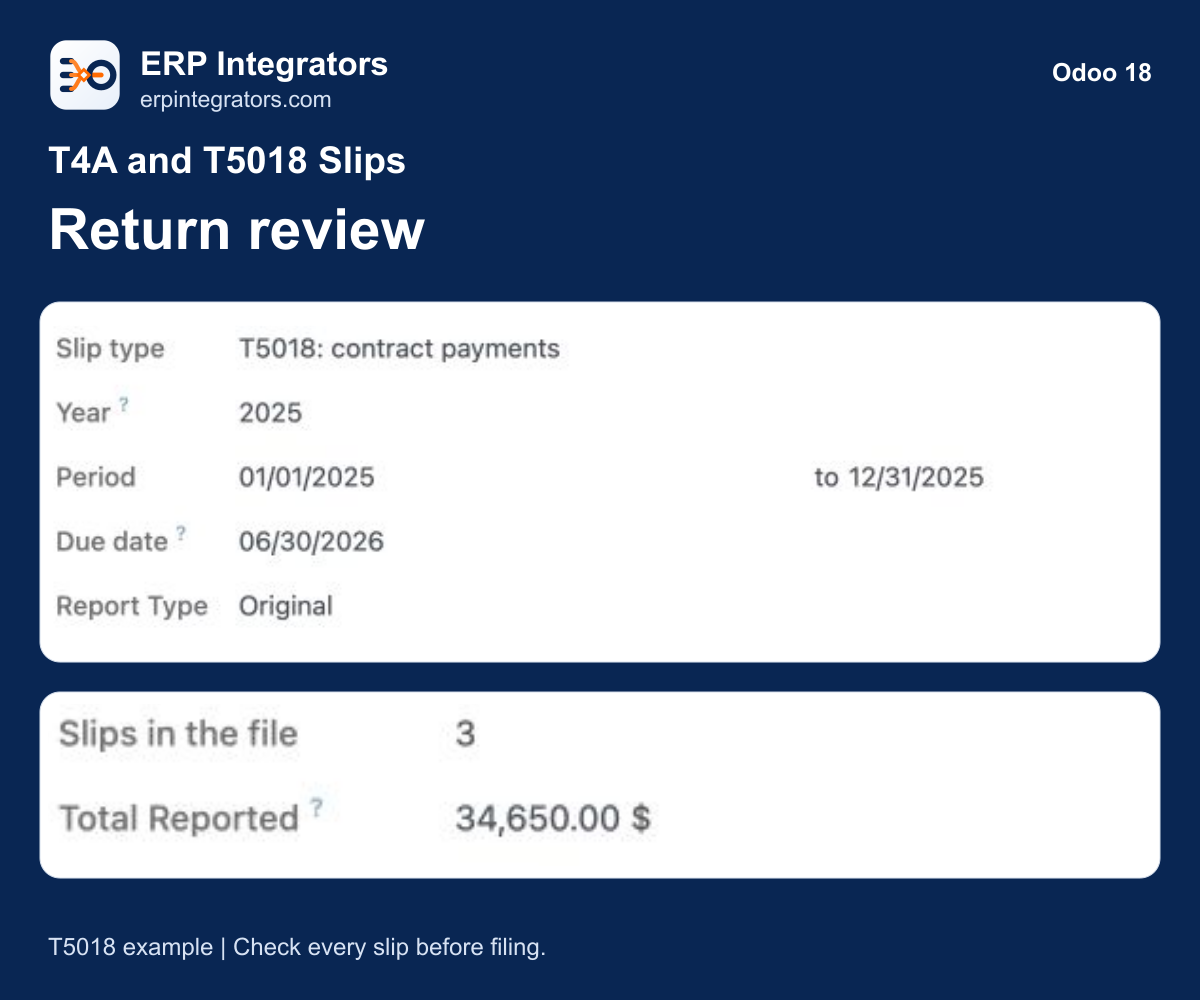
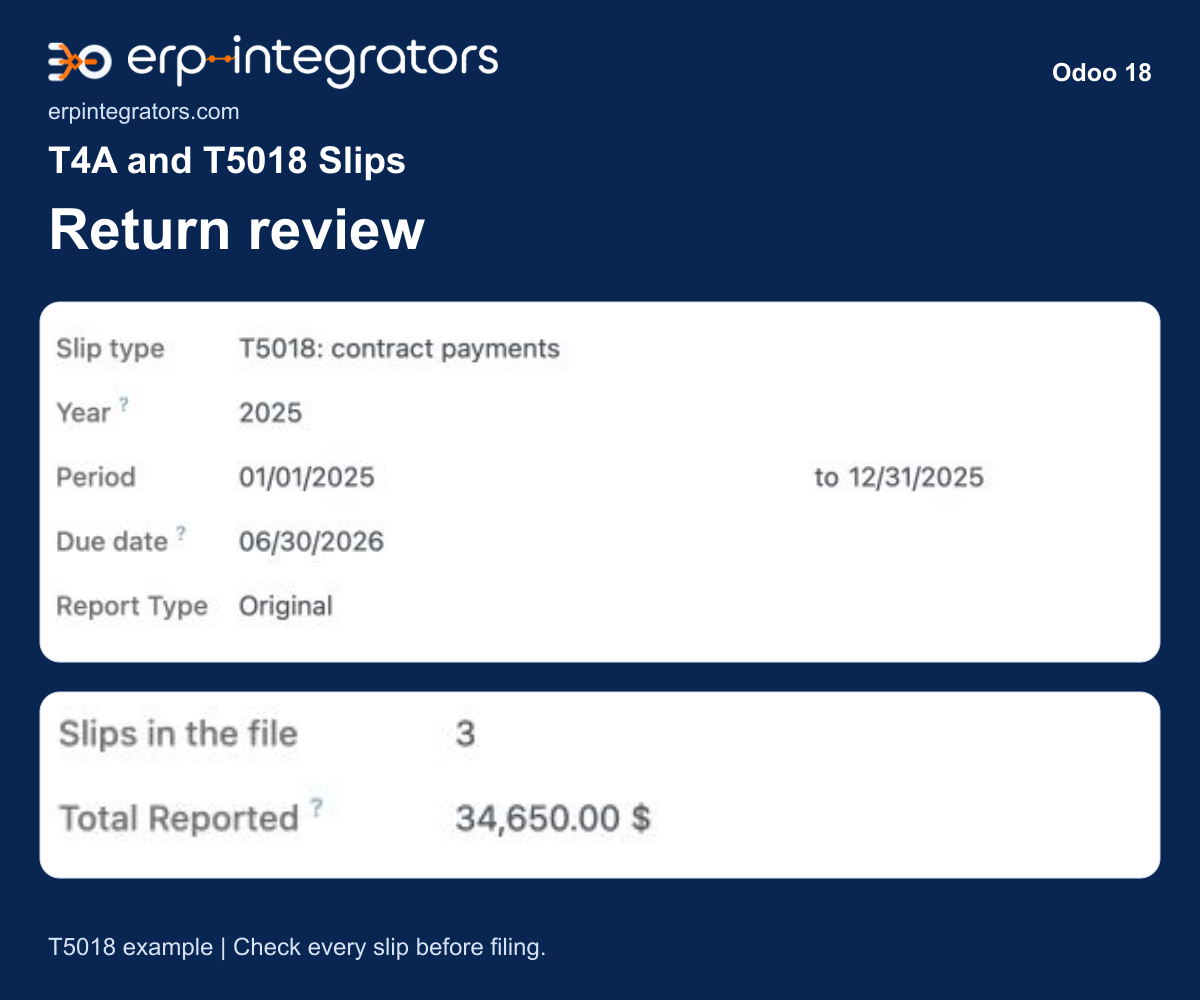
Apply the shared marketplace cover and connected wordmark

Changed region(s): [[0.0308, 0.031, 0.4317, 0.124]]

diff --git a/l10n_ca_contractor_slips/static/description/index.html b/l10n_ca_contractor_slips/static/description/index.html
@@ -1,5 +1,5 @@
 <div itemscope="" itemtype="https://schema.org/SoftwareApplication">
-<div class="d-flex align-items-center mb-4" style="color:#092653"><img src="logo.png" width="64" height="64" alt="ERP Integrators" class="mr-3"/><div><p class="mb-1" style="font-size:24px;font-weight:600">ERP Integrators</p><p class="mb-0">erpintegrators.com | Solvync Inc.</p></div></div>
+<div class="mb-4"><img src="logo.png" width="450" height="56" alt="ERP Integrators" style="display:block;width:450px;max-width:100%;height:auto"/><p class="mt-2 mb-0">erpintegrators.com | Solvync Inc.</p></div>
 <h1 itemprop="name" id="t4a-and-t5018-slips">T4A and T5018 Slips</h1>
 <section class="mb-4">
 <h2>Release details</h2>
